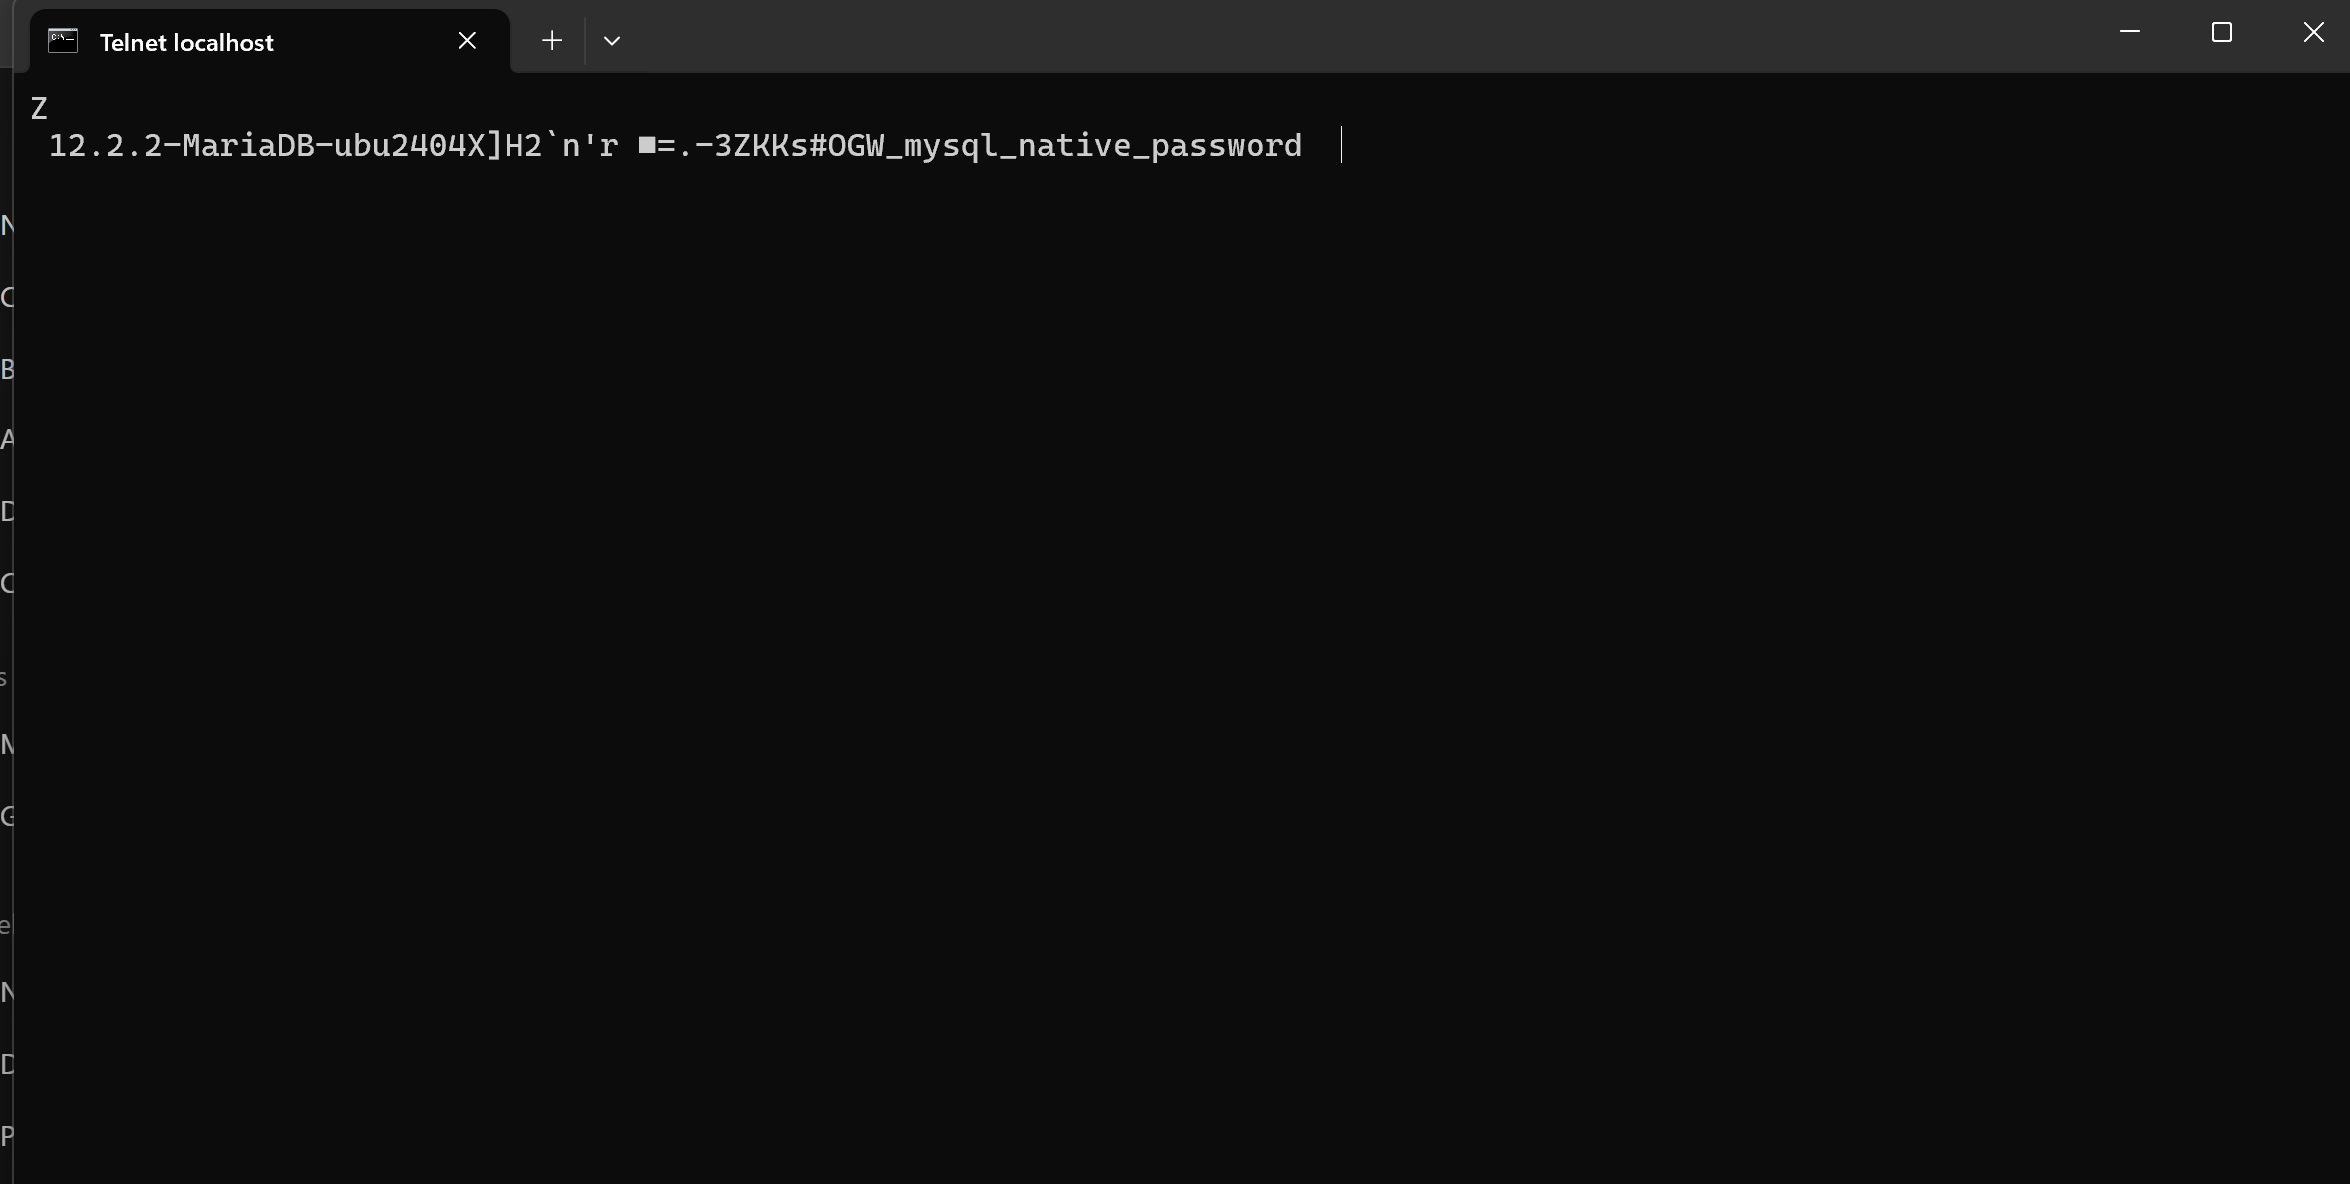
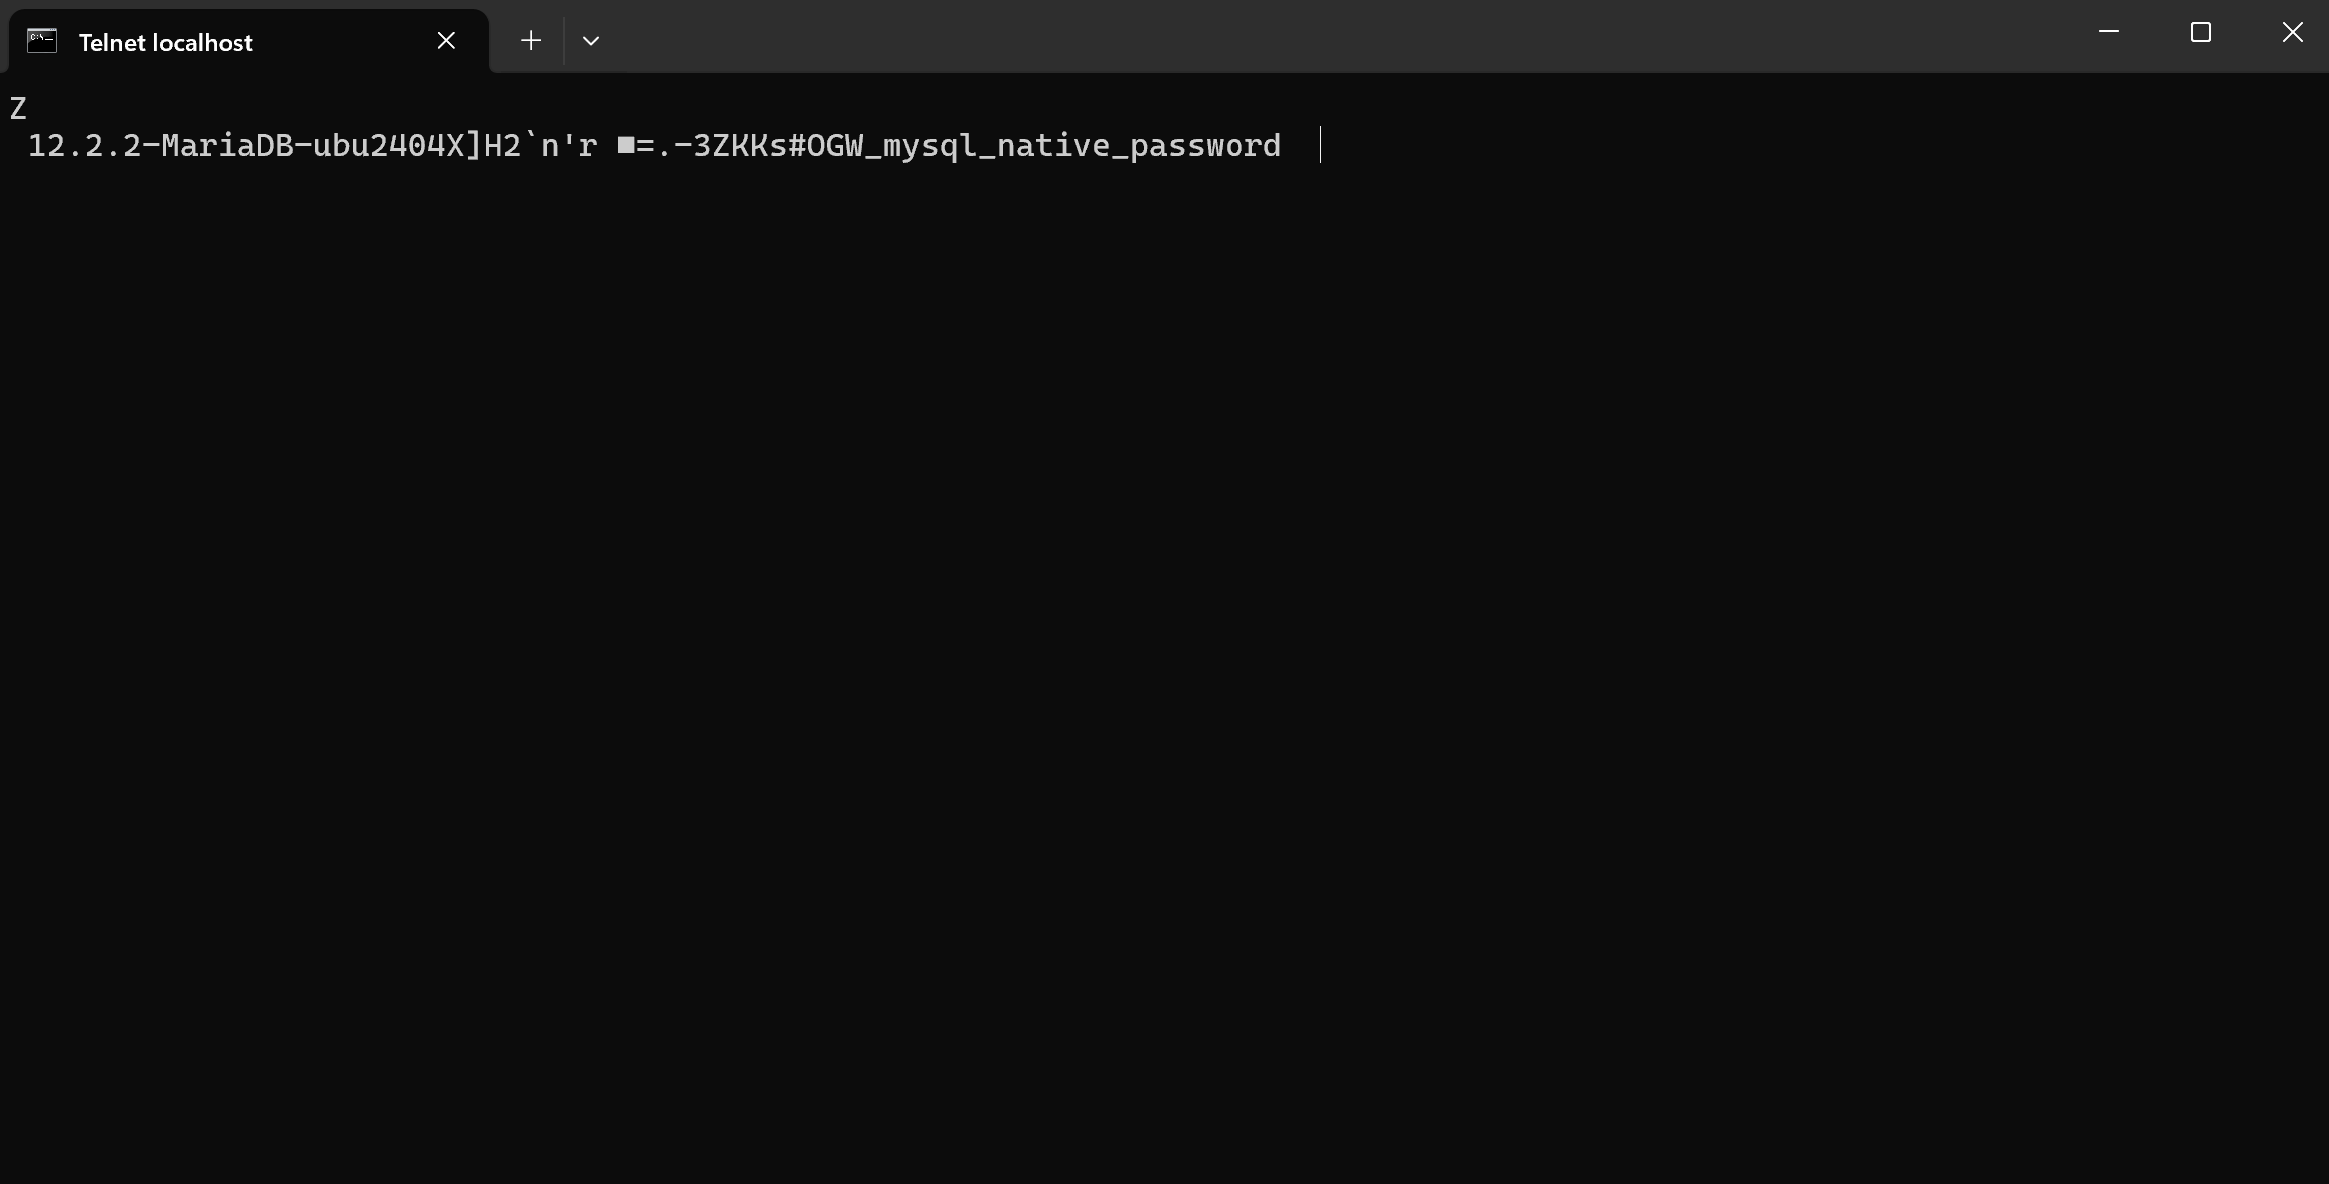
md

Changed region(s): [[0.0, 0.0, 0.5565, 0.1562], [0.1855, 0.0, 0.2164, 0.0625]]

diff --git a/KN02B/Dokumentation.md b/KN02B/Dokumentation.md
@@ -80,7 +80,11 @@ Erwartung:
 
 ---
 
+### 📸 Screenshot (DB)
 
+![Telnet DB Test](https://raw.githubusercontent.com/michaeleaton212/Modul347/main/KN02B/telnet.png)
+
+---
 
 ## 2) Web – PHP + Apache Container
 
@@ -198,6 +202,13 @@ Erwartung:
 * `info.php` zeigt phpinfo()
 * `db.php` zeigt User-Liste aus mysql.user
 
+---
+
+### 📸 Screenshots (Web)
+
+![info.php](https://raw.githubusercontent.com/michaeleaton212/Modul347/main/KN02B/infosite.png)
+
+![db.php](https://raw.githubusercontent.com/michaeleaton212/Modul347/main/KN02B/dbsite.png)
 
 ---
 
@@ -216,16 +227,6 @@ docker push michaeleatontbz/kn02b-db:kn02b-db
 docker tag kn02b-web:kn02b-web michaeleatontbz/kn02b-web:kn02b-web
 docker push michaeleatontbz/kn02b-web:kn02b-web
 ```
-
----
-
-### Screenshots
-
-![Telnet DB Test](https://raw.githubusercontent.com/michaeleaton212/Modul347/main/KN02B/telnet.png)
-
-![info.php](https://raw.githubusercontent.com/michaeleaton212/Modul347/main/KN02B/infosite.png)
-
-![db.php](https://raw.githubusercontent.com/michaeleaton212/Modul347/main/KN02B/dbsite.png)
 
 ---
 
